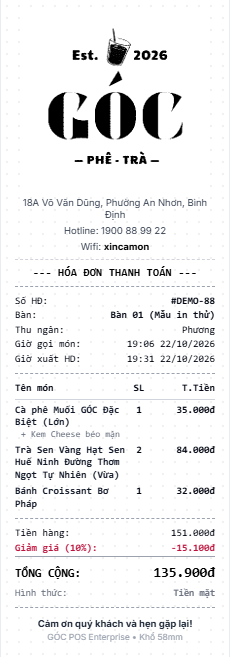
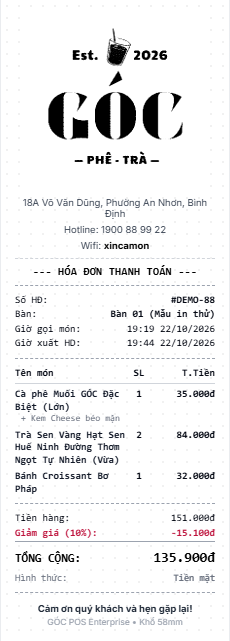
feat(receipt): hide cashier line on receipts while preserving audit data in Supabase

diff --git a/tests/receipt_engine_and_store_config.test.js b/tests/receipt_engine_and_store_config.test.js
@@ -428,6 +428,25 @@ describe('GÓC POS — Store Configuration, Receipt Engine & Thermal Printing Su
       // Revenue is undisturbed
       assert.equal(revenueBefore, 1000000);
     });
+
+    test('4.4 - Cashier identity is preserved in snapshot and model for auditing, but omitted from printed metadata', () => {
+      const order = {
+        id: 'ORD-AUDIT-99',
+        tableName: 'Bàn 05',
+        cashier: 'Nguyễn Văn Thu Ngân',
+        staffName: 'Nguyễn Văn Thu Ngân',
+        total: 50000,
+        items: []
+      };
+
+      const snapshot = createReceiptSnapshotRecord(order, { currentCashier: 'Nguyễn Văn Thu Ngân' });
+      // Database snapshot STILL securely retains cashier
+      assert.equal(snapshot.cashier, 'Nguyễn Văn Thu Ngân');
+      assert.equal(snapshot.order_snapshot.cashier, 'Nguyễn Văn Thu Ngân');
+
+      const model = buildReceiptModel({ order });
+      assert.equal(model.cashier, 'Nguyễn Văn Thu Ngân');
+    });
   });
 
   // =========================================================================
@@ -467,6 +486,29 @@ describe('GÓC POS — Store Configuration, Receipt Engine & Thermal Printing Su
 
       const row80 = formatTableRow80mm('Trà tắc hạt chia thơm mát mùa hè', '5', '100.000đ');
       assert.equal(row80.length, 48);
+    });
+
+    test('5.3 - buildReceiptThermalBytes strictly omits cashier line on printed receipt', () => {
+      const order = {
+        id: 'ORD-NOCASHIER',
+        tableName: 'Bàn 02',
+        cashier: 'Trần Văn Nhân Viên',
+        items: [{ name: 'Trà đào', quantity: 1, lineTotal: 30000 }],
+        total: 30000
+      };
+
+      const model = buildReceiptModel({ order, overridePaperWidth: '58mm' });
+      const bytes = buildReceiptThermalBytes(model);
+      const decodedText = new TextDecoder().decode(bytes);
+
+      // Verify "Thu ngan:" or cashier name is NOT in the thermal print output
+      assert.equal(decodedText.includes('Thu ngan:'), false);
+      assert.equal(decodedText.includes('Tran Van Nhan Vien'), false);
+      // But verify essential metadata remains
+      assert.equal(decodedText.includes('So HD:'), true);
+      assert.equal(decodedText.includes('Ban:'), true);
+      assert.equal(decodedText.includes('Gio goi mon:'), true);
+      assert.equal(decodedText.includes('Gio xuat HD:'), true);
     });
   });
 });

diff --git a/src/utils/bluetoothPrinter.js b/src/utils/bluetoothPrinter.js
@@ -343,7 +343,6 @@ export function buildReceipt57mmBytes(order, settings = {}, options = {}) {
   addBytes(ESC_POS.ALIGN_LEFT);
   addLine(formatKeyValue57mm('So HD:', order.id || 'N/A'));
   addLine(formatKeyValue57mm('Ban:', order.tableName || 'Mang ve'));
-  addLine(formatKeyValue57mm('Thu ngan:', order.cashier || 'Thu ngan'));
   addLine(formatKeyValue57mm('Gio vao:', (order.createdAt || '').slice(11, 16) || '--:--'));
   addLine(formatKeyValue57mm('Gio ra:', new Date().toTimeString().slice(0, 5)));
   addLine(separator57mm('-'));
@@ -575,7 +574,6 @@ export function buildReceiptThermalBytes(model, options = {}) {
   if (model.settings?.showTable !== false) {
     addLine(kv('Ban:', model.tableName || 'Mang ve'));
   }
-  addLine(kv('Thu ngan:', model.cashier || 'Thu ngan'));
   if (model.settings?.showOrderTime !== false) {
     addLine(kv('Gio goi mon:', model.orderCreatedAtFormatted || '--:--'));
   }

diff --git a/src/components/billing/ReceiptPrintView.jsx b/src/components/billing/ReceiptPrintView.jsx
@@ -306,11 +306,6 @@ export default function ReceiptPrintView({
                 </div>
               )}
 
-              <div className="flex justify-between">
-                <span>Thu ngân:</span>
-                <span>{model.cashier}</span>
-              </div>
-
               {model.settings.showOrderTime && (
                 <div className="flex justify-between">
                   <span>Giờ gọi món:</span>

diff --git a/src/utils/receiptEngine.js b/src/utils/receiptEngine.js
@@ -317,6 +317,7 @@ export function createReceiptSnapshotRecord(order, storeSettings, paperWidth = '
       createdAt: order.created_at || order.createdAt || now,
       finishedAt: order.finished_at || order.finishedAt || now
     },
+    cashier: order.cashier || 'Thu ngân',
     paper_width: paperWidth,
     issued_at: now,
     reprint_count: 0,
